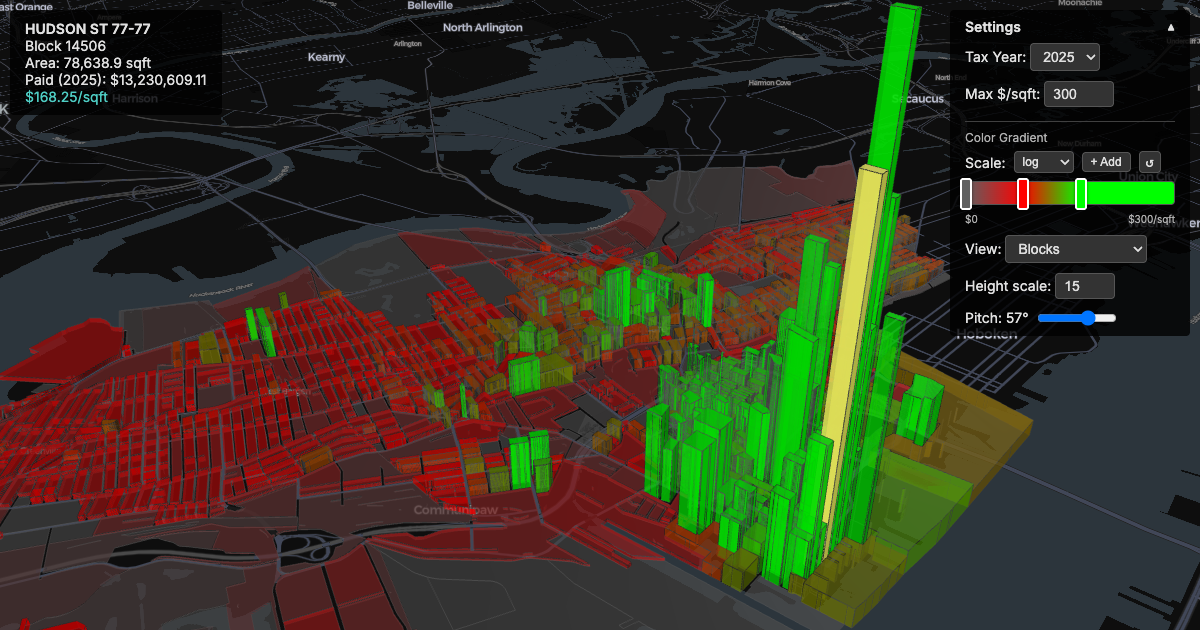
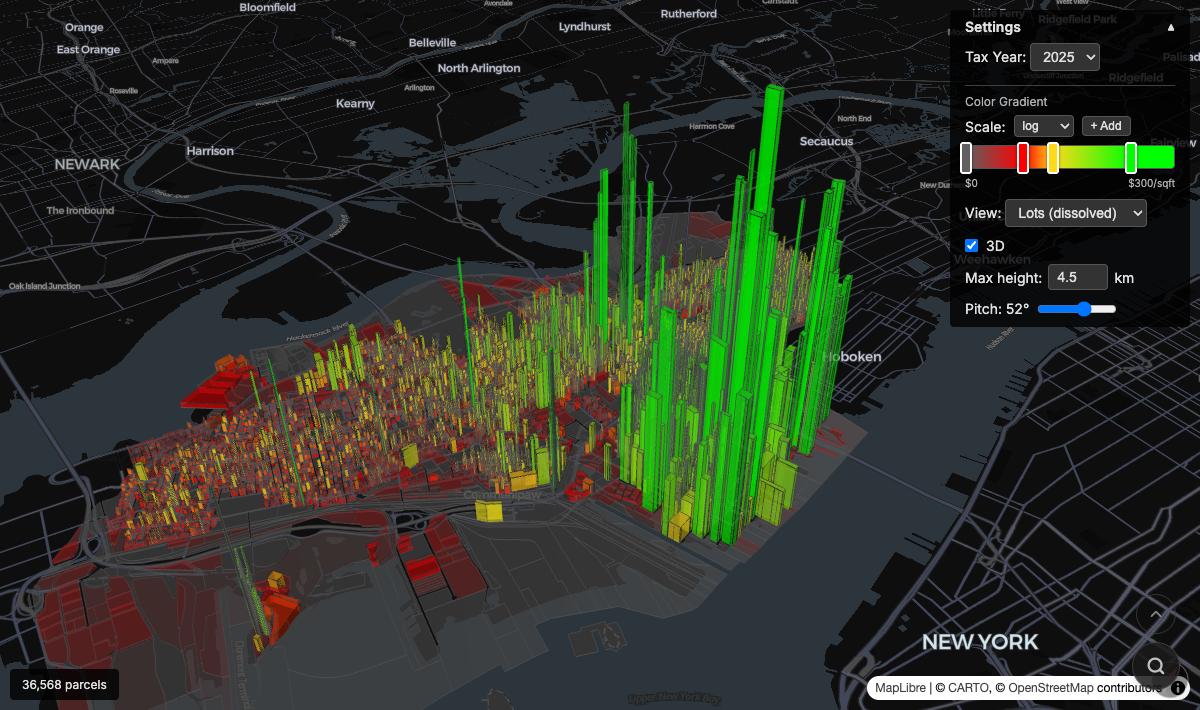
Update `scrns` config and screenshots: shared view, hero image
Use the same viewport (`40.7309-74.0630+12.3+52-28`, lot view with
99 Hudson St selected) for both `og` and `hero` screenshots. Add
`hero` config (1200x630) for README front-and-center image.

🤖 Generated with [Claude Code](https://claude.com/claude-code)

diff --git a/www/scrns.config.ts b/www/scrns.config.ts
@@ -1,10 +1,20 @@
+const defaultQuery = '?v=40.7309-74.0630+12.3+52-28&agg=lot&sel=14507-1'
+
 export default {
   og: {
-    query: '?v=40.7268-74.0620+12.9+57-30&sel=14506',
+    query: defaultQuery,
     width: 1200,
     height: 710,
     selector: '#root',
     preScreenshotSleep: 5000,
     path: 'og.png',
+  },
+  hero: {
+    query: defaultQuery,
+    width: 1200,
+    height: 630,
+    selector: '#root',
+    preScreenshotSleep: 6000,
+    path: 'hero.png',
   },
 }
